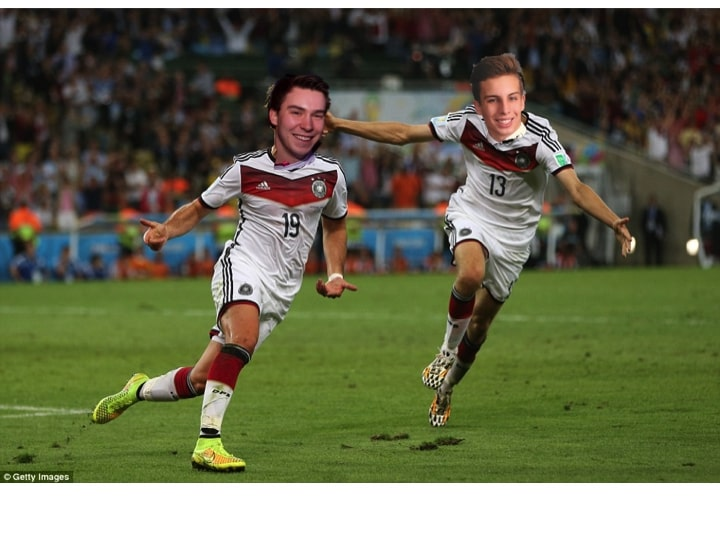
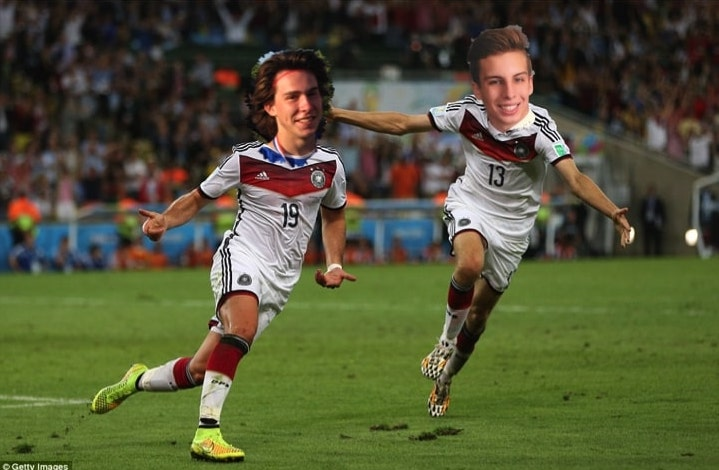
Adding Ben, Cam and Toes

diff --git a/client/src/views/Home.vue b/client/src/views/Home.vue
@@ -6,7 +6,7 @@
         <el-carousel
           trigger="click"
           type="card"
-          interval=4000
+          interval=3900
           indicator-position="outside">
           <el-carousel-item>
             <img src="@/assets/Soccerball.svg" alt="TEAM 2 WOO">
@@ -16,6 +16,9 @@
           </el-carousel-item>
           <el-carousel-item>
             <img src="@/assets/Josh.jpg" alt="TEAM 2 WOO">
+          </el-carousel-item>
+          <el-carousel-item>
+            <img src="@/assets/Cam.jpg" alt="TEAM 2 WOO">
           </el-carousel-item>
         </el-carousel>
       </div>
